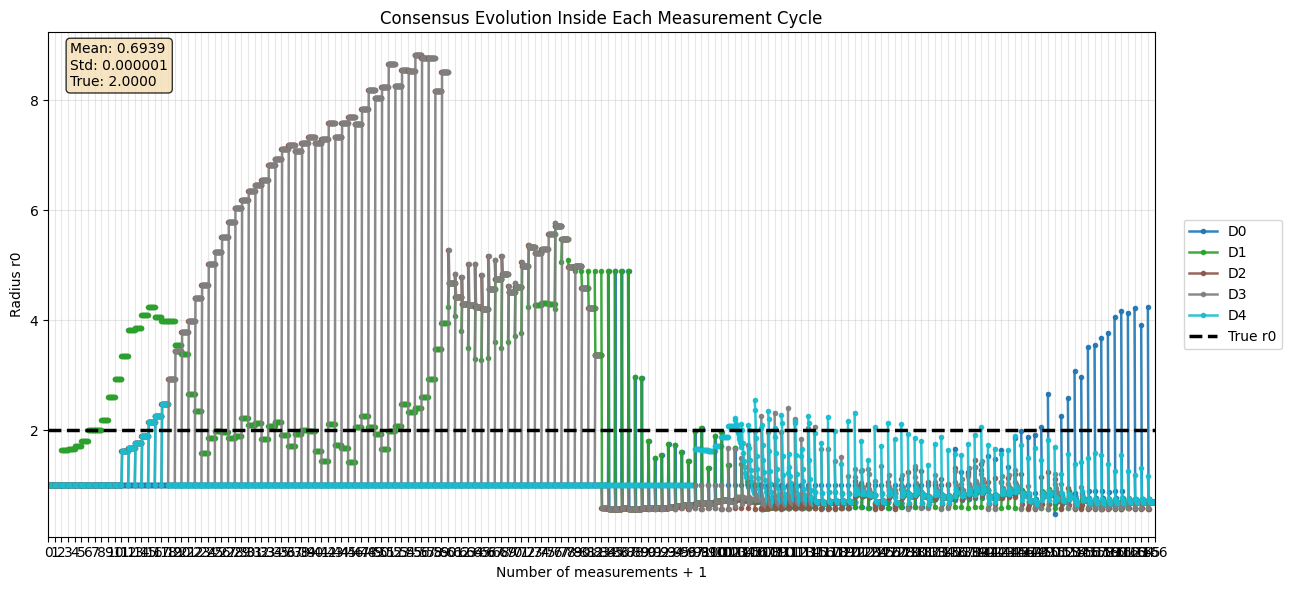
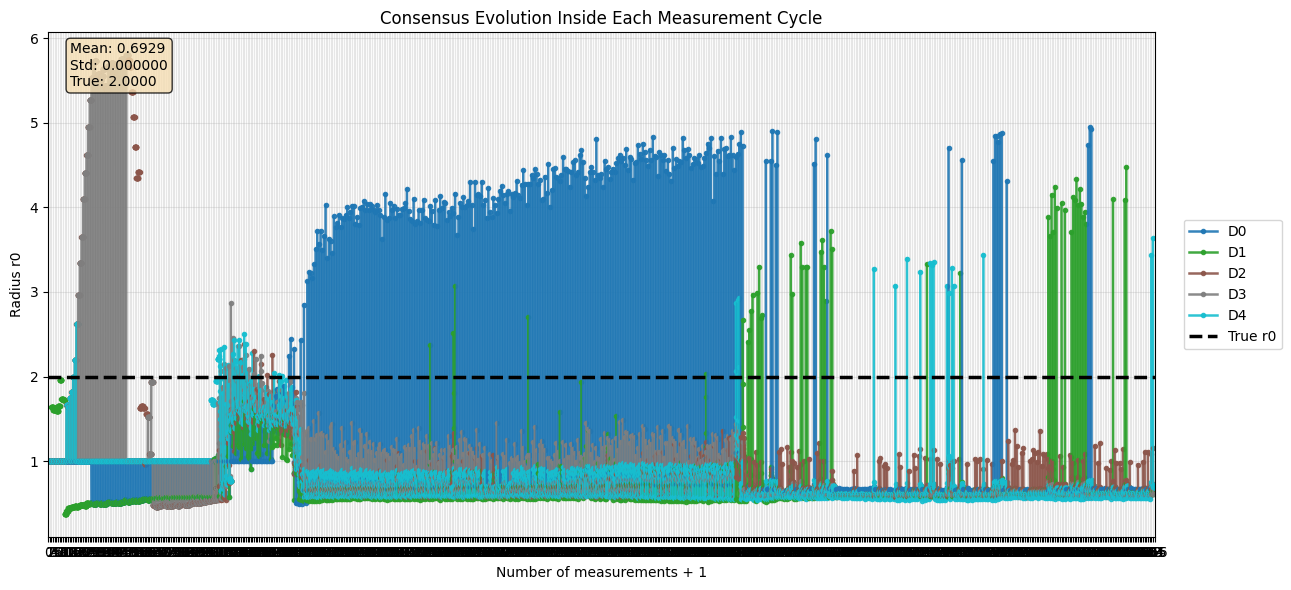
pretty good convergence on center - bad convergence on radius

diff --git a/simulation_engine.py b/simulation_engine.py
@@ -25,6 +25,9 @@ class SimulationEngine:
         boundary_tangent_band=0.35,
         lambda_reg=0.2,
         lambda_smooth=5.0,
+        lambda_center=0.05,
+        min_total_angle=np.pi * 2 / 3,
+        w_gps=5.0,
     ):
         self.sim_map = sim_map
         self.oil_spill = oil_spill
@@ -45,6 +48,9 @@ class SimulationEngine:
         self.wls_iters = max(1, int(consensus_iters))  # Reusing census_iters for WLS
         self.lambda_reg = float(lambda_reg)
         self.lambda_smooth = float(lambda_smooth)
+        self.lambda_center = float(lambda_center)
+        self.min_total_angle = float(min_total_angle)
+        self.w_gps = float(w_gps)
 
         # Optimization & detection thresholds
         self.canny_threshold1 = 20
@@ -97,15 +103,24 @@ class SimulationEngine:
             return np.array([cx, cy, np.sqrt(r2)])
         except: return None
 
-    def _geometric_circle_fit(self, points, theta_init, theta_prev=None, lambda_reg=0.0):
-        """Geometric circle fit with temporal regularization."""
+    def _geometric_circle_fit(self, points, theta_init, theta_prev=None, lambda_reg=0.0, center_prior=None, lambda_center=0.0):
+        """Geometric circle fit with temporal and center regularization."""
         def residuals(theta):
             cx, cy, r = theta
             dists = np.sqrt((points[:, 0] - cx)**2 + (points[:, 1] - cy)**2)
             res = dists - r
+            
+            aug_res = [res]
             if theta_prev is not None and lambda_reg > 0:
                 reg_res = np.sqrt(lambda_reg) * (theta - theta_prev)
-                return np.concatenate([res, reg_res])
+                aug_res.append(reg_res)
+            
+            if center_prior is not None and lambda_center > 0:
+                center_res = np.sqrt(lambda_center) * (theta[:2] - center_prior)
+                aug_res.append(center_res)
+                
+            if len(aug_res) > 1:
+                return np.concatenate(aug_res)
             return res
         xmin, xmax, ymin, ymax = self.sim_map.xlim[0], self.sim_map.xlim[1], self.sim_map.ylim[0], self.sim_map.ylim[1]
         lower_bounds = [xmin, ymin, 0.01]
@@ -229,77 +244,75 @@ class SimulationEngine:
                 neighbors.append(other)
         return neighbors
 
-    def _estimate_local_circle(self, drone):
-        """Estimate the spill center and radius (cx, cy, r) and compute confidence."""
+    def _detect_local_edges(self, drone):
+        """Sense camera and extract edge points in world coordinates."""
         camera_view = drone.get_camera_view(self.world_field, self.sim_map.x_coords, self.sim_map.y_coords)
         if camera_view.size == 0:
             drone.edge_detected = False
-            return {"edge_detected": False, "theta_measured": drone.theta, "weight": 0.0}
+            return None, 0.0
 
         oil_fraction = float(np.mean(camera_view >= self.oil_cell_threshold))
         if oil_fraction <= self.boundary_detection_oil_fraction_min or oil_fraction >= self.exploration_oil_fraction_threshold:
             drone.edge_detected = False
-            return {"edge_detected": False, "theta_measured": drone.theta, "weight": 0.0, "oil_fraction": oil_fraction}
+            return None, oil_fraction
 
-        # camera_view rows (j) correspond to y, cols (i) correspond to x
         dx = self.sim_map.x_coords[1] - self.sim_map.x_coords[0]
         dy = self.sim_map.y_coords[1] - self.sim_map.y_coords[0]
         i_center = int((drone.x - self.sim_map.x_coords[0]) / dx)
         j_center = int((drone.y - self.sim_map.y_coords[0]) / dy)
         half = camera_view.shape[0] // 2
         
-        # Ranges for world coordinates
-        # i = x (cols), j = y (rows)
         i_min, i_max = max(0, i_center - half), min(len(self.sim_map.x_coords), i_center + half + 1)
         j_min, j_max = max(0, j_center - half), min(len(self.sim_map.y_coords), j_center + half + 1)
         
         if i_min == 0 or j_min == 0 or i_max == len(self.sim_map.x_coords) or j_max == len(self.sim_map.y_coords):
             drone.edge_detected = False
-            return {"edge_detected": False, "theta_measured": drone.theta, "weight": 0.0}
+            return None, 0.0
 
         edges = detect_edges(camera_view, threshold1=self.canny_threshold1, threshold2=self.canny_threshold2)
-        edge_pixels = extract_edge_points(edges) # (row, col) -> (j, i) -> (Y, X)
+        edge_pixels = extract_edge_points(edges)
         if edge_pixels.size < 5:
             drone.edge_detected = False
-            return {"edge_detected": False, "theta_measured": drone.theta, "weight": 0.0}
+            return None, 0.0
 
         local_x, local_y = self.sim_map.x_coords[i_min:i_max], self.sim_map.y_coords[j_min:j_max]
-        
-        # rows (edge_pixels[:, 0]) match local_y
-        # cols (edge_pixels[:, 1]) match local_x
         world_y = local_y[np.clip(edge_pixels[:, 0], 0, len(local_y) - 1)]
         world_x = local_x[np.clip(edge_pixels[:, 1], 0, len(local_x) - 1)]
         points = np.column_stack([world_x, world_y])
-
-        # Use current fused estimate as initial guess for NLS to provide stability
-        theta_init = drone.theta.copy()
         
-        # Refine with Bounded NLS + Temporal Regularization
-        lambda_r = self.lambda_reg if drone.theta_prev is not None else 0.0
-        theta_measured = self._geometric_circle_fit(points, theta_init, theta_prev=drone.theta_prev, lambda_reg=lambda_r)
-        
-        # Update drone state
-        if drone.theta_prev is None: drone.theta_prev = theta_measured.copy()
-        drone.theta_measured = theta_measured.copy()
-        
-        # Confidence weight: n_points * (span / pi)
-        span = self._compute_angular_span(points, theta_measured[:2])
-        weight = float(len(points) * (span / np.pi))
-        drone.confidence_weight = weight
-        drone.has_measure = True
-        drone.edge_detected = True
-        drone.has_radius_estimate = True
-        
+        # Cache for visualization
         dist_to_edges = np.hypot(world_x - drone.x, world_y - drone.y)
         drone.last_edge_point = (float(world_x[np.argmin(dist_to_edges)]), float(world_y[np.argmin(dist_to_edges)]))
         drone.last_gradient_peak = float(np.count_nonzero(edges))
         drone.last_oil_fraction = oil_fraction
+        drone.edge_detected = True
+        return points, oil_fraction
+
+    def _fit_local_circle(self, drone, points, center_prior=None, lambda_center=0.0):
+        """Perform NLS fit with fallback for theta_measured."""
+        theta_init = drone.theta.copy()
+        lambda_r = self.lambda_reg if drone.theta_prev is not None else 0.0
         
-        return {
-            "edge_detected": True, "theta_measured": theta_measured, "weight": weight,
-            "oil_fraction": oil_fraction, "gradient_peak": float(np.count_nonzero(edges)),
-            "edge_x": float(np.mean(world_x)), "edge_y": float(np.mean(world_y))
-        }
+        theta_measured = self._geometric_circle_fit(
+            points, theta_init, theta_prev=drone.theta_prev, lambda_reg=lambda_r,
+            center_prior=center_prior, lambda_center=lambda_center
+        )
+        
+        # Robustness check: if NLS produce something completely unrealistic or hits bounds, use Taubin/LLS
+        if np.linalg.norm(theta_measured - theta_init) > 5.0 or theta_measured[2] < 0.1:
+            taubin = self._taubin_fit(points)
+            if taubin is not None:
+                theta_measured = taubin
+        
+        if drone.theta_prev is None: drone.theta_prev = theta_measured.copy()
+        drone.theta_measured = theta_measured.copy()
+        
+        span = self._compute_angular_span(points, theta_measured[:2])
+        weight = float(len(points) * (span / np.pi))
+        drone.confidence_weight = weight
+        drone.has_measure = True
+        drone.has_radius_estimate = True
+        return {"theta_measured": theta_measured, "weight": weight, "span": span}
 
     def _compute_voronoi_targets(self):
         """Compute one weighted Voronoi centroid per drone on a sampled grid.
@@ -425,8 +438,8 @@ class SimulationEngine:
             history["x"].append(float(drone.x))
             history["y"].append(float(drone.y))
 
-    def _run_wls_fusion(self):
-        """Iterative Normalized WLS fusion: theta_i = (wi*theta_i + sum(wj*theta_j)) / (wi + sum(wj))."""
+    def _run_wls_fusion(self, gps_centroid=None, use_gps_prior=False):
+        """Iterative Normalized WLS fusion with optional GPS center prior."""
         for drone in self.drones:
             drone.theta_fused = drone.theta_measured.copy()
 
@@ -444,7 +457,14 @@ class SimulationEngine:
                     weighted_theta_sum += neighbor.confidence_weight * neighbor.theta_fused
                 
                 if weight_sum > 1e-12:
-                    new_fused[drone.drone_id] = weighted_theta_sum / weight_sum
+                    if use_gps_prior and gps_centroid is not None:
+                        # Apply w_gps only to cx, cy components
+                        cx_fused = (weighted_theta_sum[0] + self.w_gps * gps_centroid[0]) / (weight_sum + self.w_gps)
+                        cy_fused = (weighted_theta_sum[1] + self.w_gps * gps_centroid[1]) / (weight_sum + self.w_gps)
+                        r_fused = weighted_theta_sum[2] / weight_sum
+                        new_fused[drone.drone_id] = np.array([cx_fused, cy_fused, r_fused])
+                    else:
+                        new_fused[drone.drone_id] = weighted_theta_sum / weight_sum
                 else:
                     new_fused[drone.drone_id] = drone.theta_fused
             
@@ -480,6 +500,31 @@ class SimulationEngine:
         self.frame += 1
         measurement_frame = (self.frame % self.measure_every == 0)
 
+        # 1. Edge detection results for all (points, edge_detected)
+        detection_results = {}
+        all_on_border = True
+        for drone in self.drones:
+            points, oil_fraction = self._detect_local_edges(drone)
+            detection_results[drone.drone_id] = (points, oil_fraction)
+            if not getattr(drone, "edge_detected", False):
+                all_on_border = False
+
+        # 2. GPS Centroid of all drones
+        px = [d.x for d in self.drones]
+        py = [d.y for d in self.drones]
+        cx_gps, cy_gps = np.mean(px), np.mean(py)
+        gps_centroid = np.array([cx_gps, cy_gps])
+
+        # 3. Fitting for all drones
+        mean_theta = np.mean([d.theta for d in self.drones], axis=0)
+        total_span = 0.0
+        for d in self.drones:
+            pts, _ = detection_results[d.drone_id]
+            if d.edge_detected and pts is not None:
+                total_span += self._compute_angular_span(pts, mean_theta[:2])
+        
+        use_gps_prior = (all_on_border and total_span >= self.min_total_angle)
+
         for drone in self.drones:
             drone.has_measure = False
             history = self.estimates_history[drone.drone_id]
@@ -488,24 +533,42 @@ class SimulationEngine:
             history["r"].append(float(drone.theta[2]))
 
             if measurement_frame:
-                res = self._estimate_local_circle(drone)
-                history["edge_x"].append(res.get("edge_x", np.nan))
-                history["edge_y"].append(res.get("edge_y", np.nan))
-                history["edge_detected"].append(res["edge_detected"])
-                history["gradient_magnitude"].append(res.get("gradient_peak", np.nan))
-                history["gradient_peak"].append(res.get("gradient_peak", np.nan))
-                history["oil_fraction"].append(res.get("oil_fraction", np.nan))
-                history["cx_meas"].append(float(drone.theta_measured[0]))
-                history["cy_meas"].append(float(drone.theta_measured[1]))
-                history["r_meas"].append(float(drone.theta_measured[2]))
-                history["weight"].append(drone.confidence_weight)
+                points, oil_fraction = detection_results[drone.drone_id]
+                if drone.edge_detected and points is not None:
+                    res = self._fit_local_circle(
+                        drone, points, 
+                        center_prior=gps_centroid if use_gps_prior else None,
+                        lambda_center=self.lambda_center if use_gps_prior else 0.0
+                    )
+                    
+                    history["edge_x"].append(float(np.mean(points[:, 0])))
+                    history["edge_y"].append(float(np.mean(points[:, 1])))
+                    history["edge_detected"].append(True)
+                    history["gradient_magnitude"].append(drone.last_gradient_peak)
+                    history["gradient_peak"].append(drone.last_gradient_peak)
+                    history["oil_fraction"].append(oil_fraction)
+                    history["cx_meas"].append(float(drone.theta_measured[0]))
+                    history["cy_meas"].append(float(drone.theta_measured[1]))
+                    history["r_meas"].append(float(drone.theta_measured[2]))
+                    history["weight"].append(drone.confidence_weight)
+                else:
+                    history["edge_x"].append(np.nan)
+                    history["edge_y"].append(np.nan)
+                    history["edge_detected"].append(False)
+                    history["gradient_magnitude"].append(0.0)
+                    history["gradient_peak"].append(0.0)
+                    history["oil_fraction"].append(oil_fraction if isinstance(oil_fraction, float) else np.nan)
+                    history["cx_meas"].append(float(drone.theta_measured[0]))
+                    history["cy_meas"].append(float(drone.theta_measured[1]))
+                    history["r_meas"].append(float(drone.theta_measured[2]))
+                    history["weight"].append(0.0)
             else:
                 for k in ["edge_x", "edge_y", "edge_detected", "gradient_magnitude", "gradient_peak", "oil_fraction", "cx_meas", "cy_meas", "r_meas", "weight"]:
                     history[k].append(history[k][-1] if history[k] else np.nan)
 
         # Consensus/Fusion
         self._update_communication_topology()
-        max_diff = self._run_wls_fusion()
+        max_diff = self._run_wls_fusion(gps_centroid=gps_centroid, use_gps_prior=use_gps_prior)
 
         if measurement_frame and self._current_measure_trace:
             self.measurement_consensus_history.append(self._current_measure_trace)
